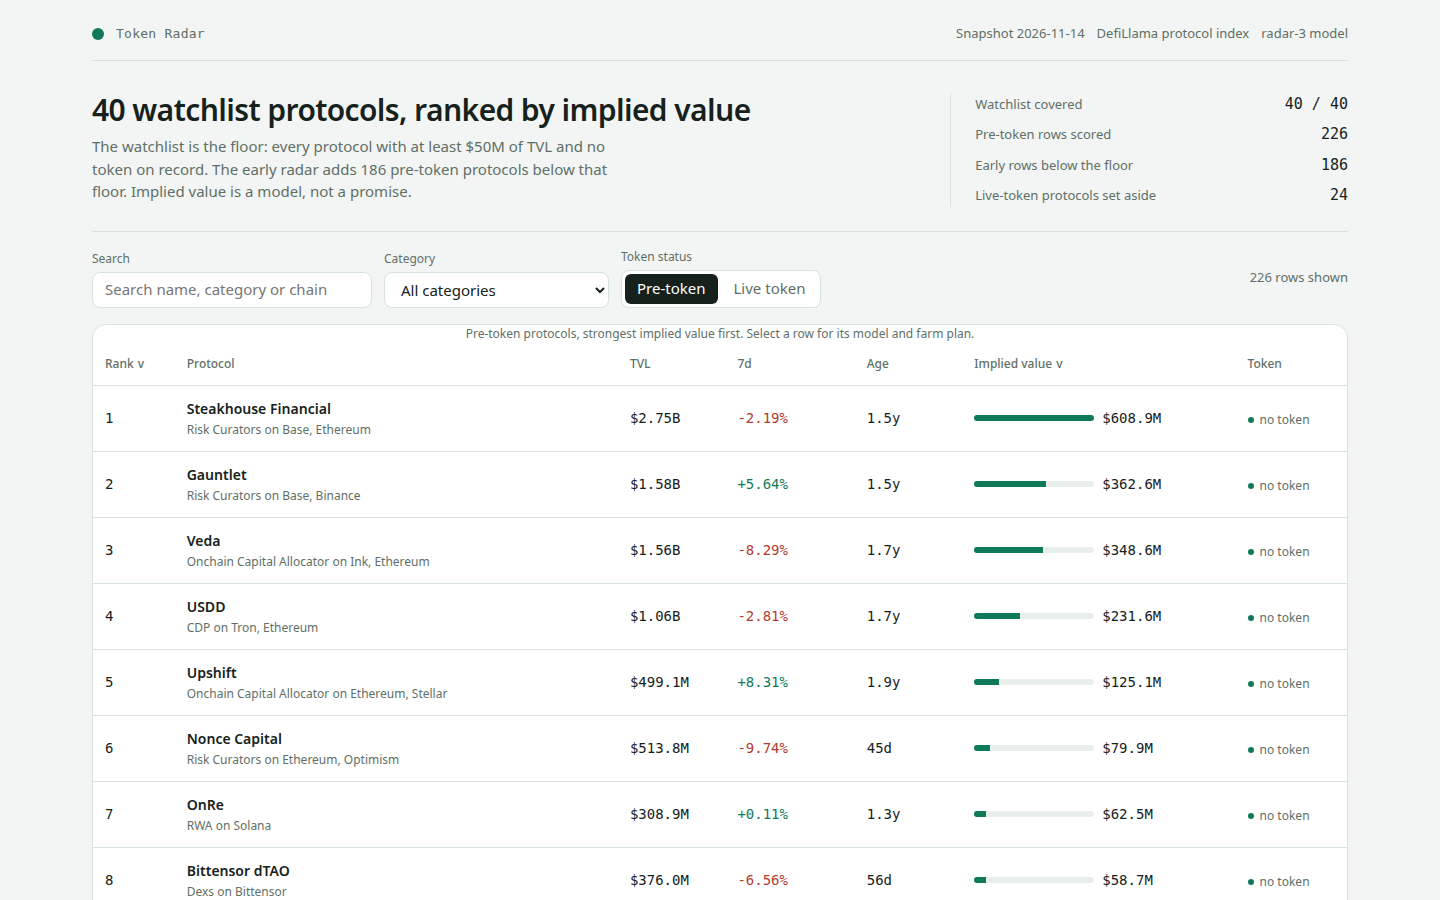
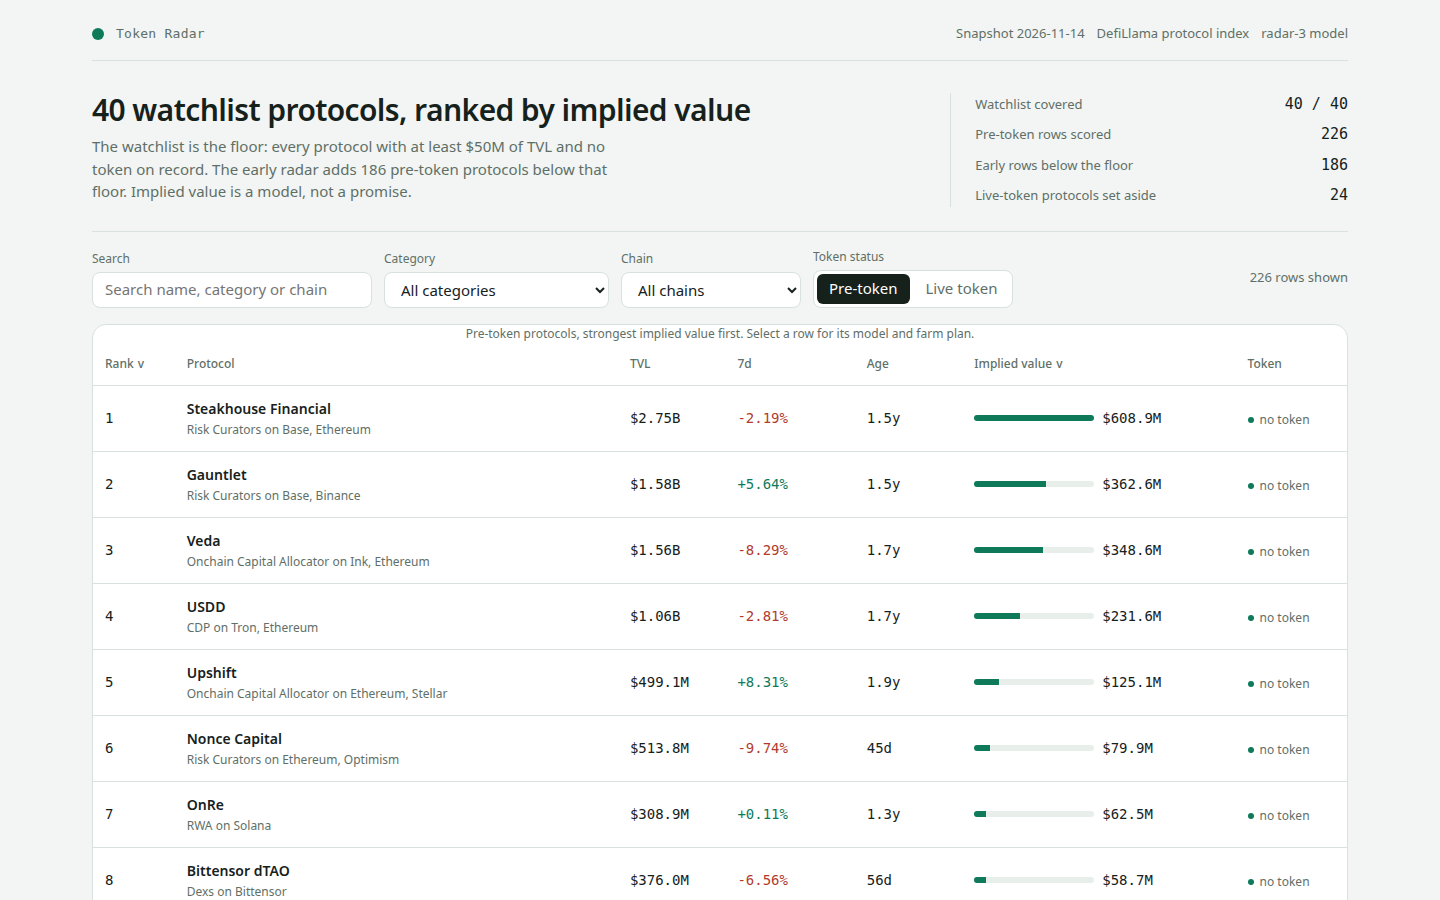
Add a chain filter to the dashboard controls
Filter the board by chain (top 12 chains by row count, with counts
shown), shareable through the URL hash like the category filter, and
reset by Clear filters. README updated to match.

Changed region(s): [[0.4375, 0.28, 0.6875, 0.3422]]

diff --git a/dashboard/app.js b/dashboard/app.js
@@ -11,7 +11,7 @@
   var DATA = window.RADAR;
   if (!DATA) return;
   var app = document.getElementById('board');
-  var state = { q: '', category: 'all', tab: 'pre-token', sort: 'implied', dir: -1, selected: null };
+  var state = { q: '', category: 'all', chain: 'all', tab: 'pre-token', sort: 'implied', dir: -1, selected: null };
 
   var usd = new Intl.NumberFormat('en-US', { style: 'currency', currency: 'USD', maximumFractionDigits: 0 });
   function fmtUsd(n) {
@@ -148,11 +148,13 @@
     if (params.get('q')) state.q = params.get('q');
     if (params.get('p')) state.selected = params.get('p');
     if (params.get('category')) state.category = params.get('category');
+    if (params.get('chain')) state.chain = params.get('chain');
   }
   function writeHash() {
     var params = new URLSearchParams();
     if (state.q) params.set('q', state.q);
     if (state.category !== 'all') params.set('category', state.category);
+    if (state.chain !== 'all') params.set('chain', state.chain);
     if (state.selected) params.set('p', state.selected);
     var next = params.toString();
     if (next) window.history.replaceState(null, '', '#' + next);
@@ -163,6 +165,7 @@
     var q = state.q.trim().toLowerCase();
     return DATA.rows.filter(function (r) {
       if (state.category !== 'all' && r.category !== state.category) return false;
+      if (state.chain !== 'all' && (r.chains || []).indexOf(state.chain) < 0) return false;
       if (!q) return true;
       var hay = [r.name, r.slug, r.category, (r.chains || []).join(' ')].join(' ').toLowerCase();
       return hay.indexOf(q) >= 0;
@@ -211,6 +214,10 @@
 
   function controls() {
     var categories = Array.from(new Set(DATA.rows.map(function (r) { return r.category || 'Other'; }))).sort();
+    // Chains by how many board rows name them, most common first, capped so the list stays short.
+    var chainCounts = {};
+    DATA.rows.forEach(function (r) { (r.chains || []).forEach(function (c) { chainCounts[c] = (chainCounts[c] || 0) + 1; }); });
+    var chains = Object.keys(chainCounts).sort(function (a, b) { return chainCounts[b] - chainCounts[a] || (a < b ? -1 : 1); }).slice(0, 12);
     var search = el('input', { type: 'search', id: 'q', placeholder: 'Search name, category or chain', value: state.q, 'aria-label': 'Search the board' });
     search.addEventListener('input', function () { state.q = search.value; writeHash(); render(); });
     var select = el('select', { id: 'category', 'aria-label': 'Filter by category' },
@@ -218,11 +225,17 @@
       categories.map(function (c) { return el('option', { value: c, text: c, selected: c === state.category ? 'selected' : null }); })
     );
     select.addEventListener('change', function () { state.category = select.value; writeHash(); render(); });
+    var chainSelect = el('select', { id: 'chain', 'aria-label': 'Filter by chain' },
+      el('option', { value: 'all', text: 'All chains' }),
+      chains.map(function (c) { return el('option', { value: c, text: c + ' (' + chainCounts[c] + ')', selected: c === state.chain ? 'selected' : null }); })
+    );
+    chainSelect.addEventListener('change', function () { state.chain = chainSelect.value; writeHash(); render(); });
     var pre = el('button', { type: 'button', 'aria-pressed': state.tab === 'pre-token' ? 'true' : 'false', text: 'Pre-token', onclick: function () { state.tab = 'pre-token'; render(); } });
     var live = el('button', { type: 'button', 'aria-pressed': state.tab === 'live' ? 'true' : 'false', text: 'Live token', onclick: function () { state.tab = 'live'; render(); } });
     return el('div', { class: 'controls' },
       el('div', { class: 'field' }, el('label', { for: 'q', text: 'Search' }), search),
       el('div', { class: 'field' }, el('label', { for: 'category', text: 'Category' }), select),
+      el('div', { class: 'field' }, el('label', { for: 'chain', text: 'Chain' }), chainSelect),
       el('div', { class: 'field' }, el('span', { class: 'sub', text: 'Token status' }), el('div', { class: 'tabs' }, pre, live)),
       el('span', { class: 'count', text: state.tab === 'pre-token' ? rows().length + ' rows shown' : DATA.live.length + ' live-token protocols' })
     );
@@ -243,7 +256,7 @@
       return el('div', { class: 'panel' }, el('div', { class: 'empty' },
         el('h2', { text: 'No protocol matches that filter' }),
         el('p', { text: 'Clear the search or pick another category to see the board again.' }),
-        el('button', { class: 'button primary', type: 'button', text: 'Clear filters', onclick: function () { state.q = ''; state.category = 'all'; writeHash(); render(); } })
+        el('button', { class: 'button primary', type: 'button', text: 'Clear filters', onclick: function () { state.q = ''; state.category = 'all'; state.chain = 'all'; writeHash(); render(); } })
       ));
     }
     var max = list[0].implied_value_usd || 1;

diff --git a/README.md b/README.md
@@ -43,9 +43,10 @@ weekly repeat of the protocol's core action on a second chain when it has one.
 
 ## The dashboard
 
-`dashboard/` is a static page with no network: search, filter by category,
-sort by rank / name / TVL / growth / age, a detail view per protocol with
-the model's inputs and the farm plan, and a live-token view kept apart.
+`dashboard/` is a static page with no network: search, filter by category
+and by chain, sort by rank / name / TVL / growth / age, a detail view per
+protocol with the model's inputs and the farm plan, and a live-token view
+kept apart.
 
 ## Run it locally
 
